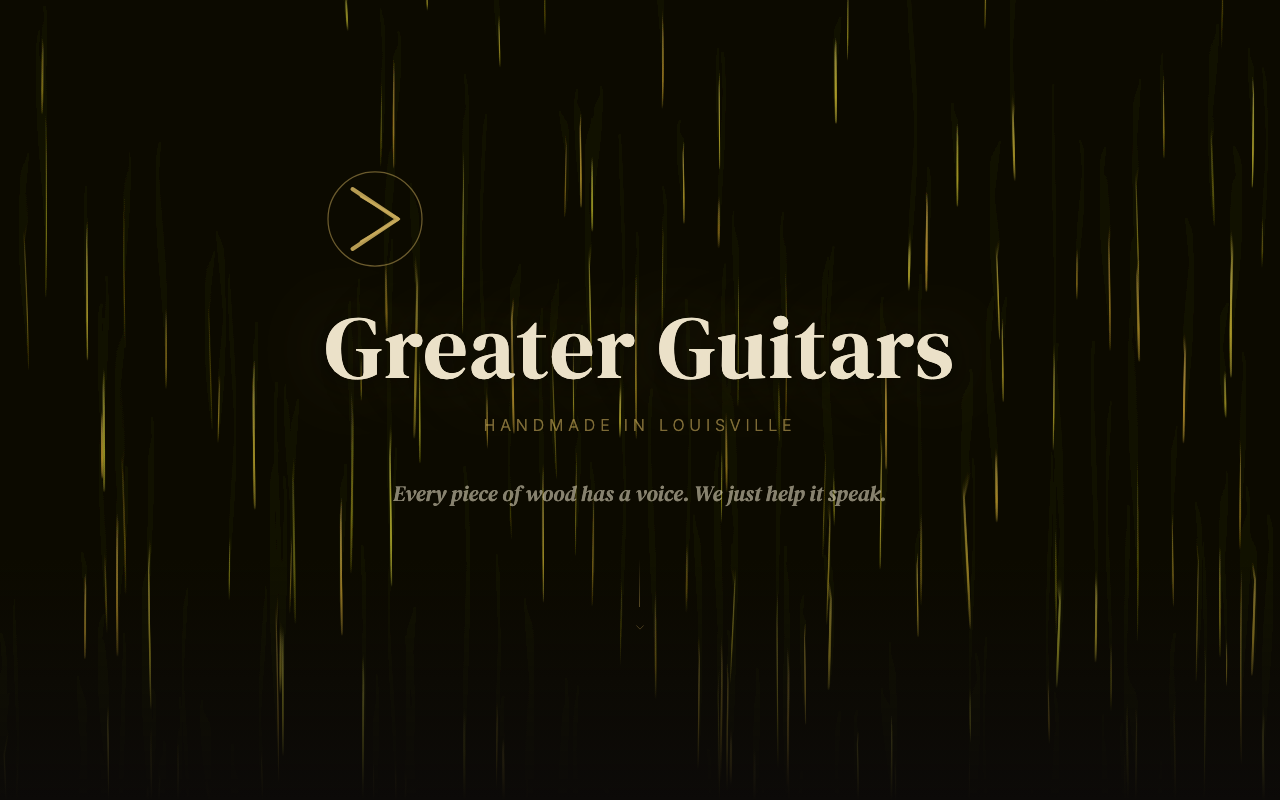
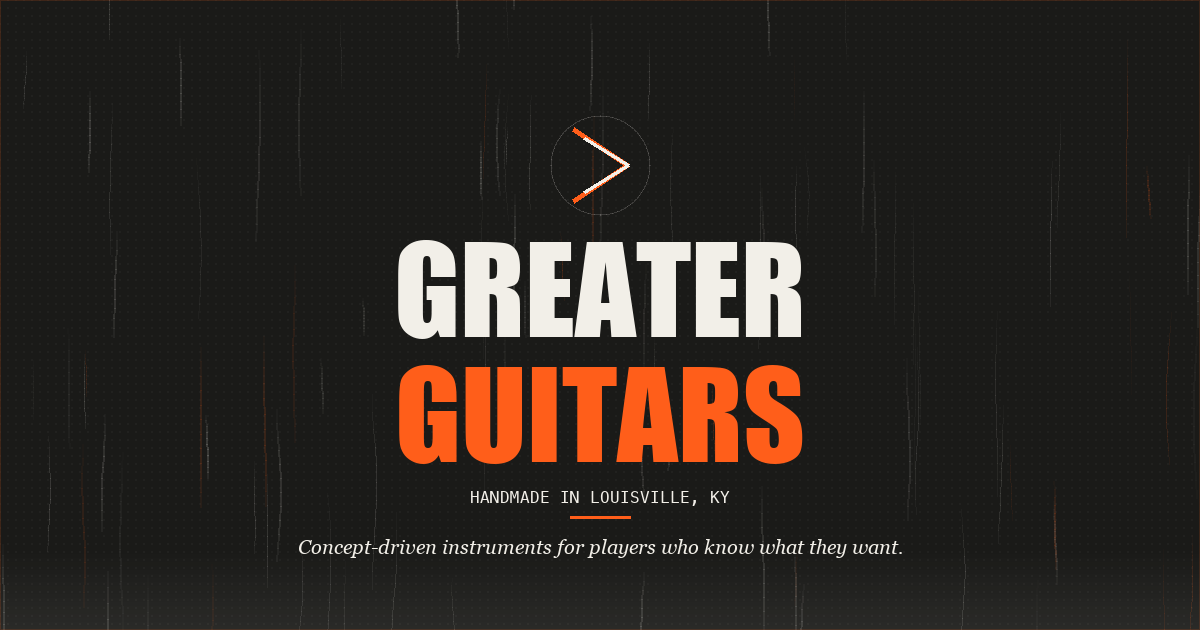
feat(portfolio): update Greater Guitars entry for Zine Shop rebrand
Updated preview/OG images and description to reflect the new punk/new
wave aesthetic with newsprint palette and Clash Display typography.

diff --git a/main-site/src/App.jsx b/main-site/src/App.jsx
@@ -898,7 +898,7 @@ function App() {
       altText: "Greater Guitars Louisville Kentucky custom handmade electric guitars luthier Alex MacLeod workshop repairs",
       category: "Retail",
       specWork: false,
-      details: "Real client site for Greater Guitars, a custom guitar builder in Louisville, KY. Features cinematic paint-drip hero animation (Canvas 2D), antique gold palette on void black, product showcase with real workshop photos, configurator/inquiry form, photo gallery, YouTube embed slots, testimonial placeholders, and film grain overlay. React 19 + Vite 7 + Tailwind v4."
+      details: "Real client site for Greater Guitars, a custom guitar builder in Louisville, KY. Zine Shop aesthetic — late 70s punk/new wave meets modern sustainable design. Newsprint-on-ink color palette, Clash Display + Instrument Serif + DM Mono typography, Canvas 2D ink-drip hero animation, halftone dot textures, product showcase with real workshop photos, configurator/inquiry form, photo gallery, YouTube embed slots, and film grain overlay. React 19 + Vite 7 + Tailwind v4."
     }
   ];
 
